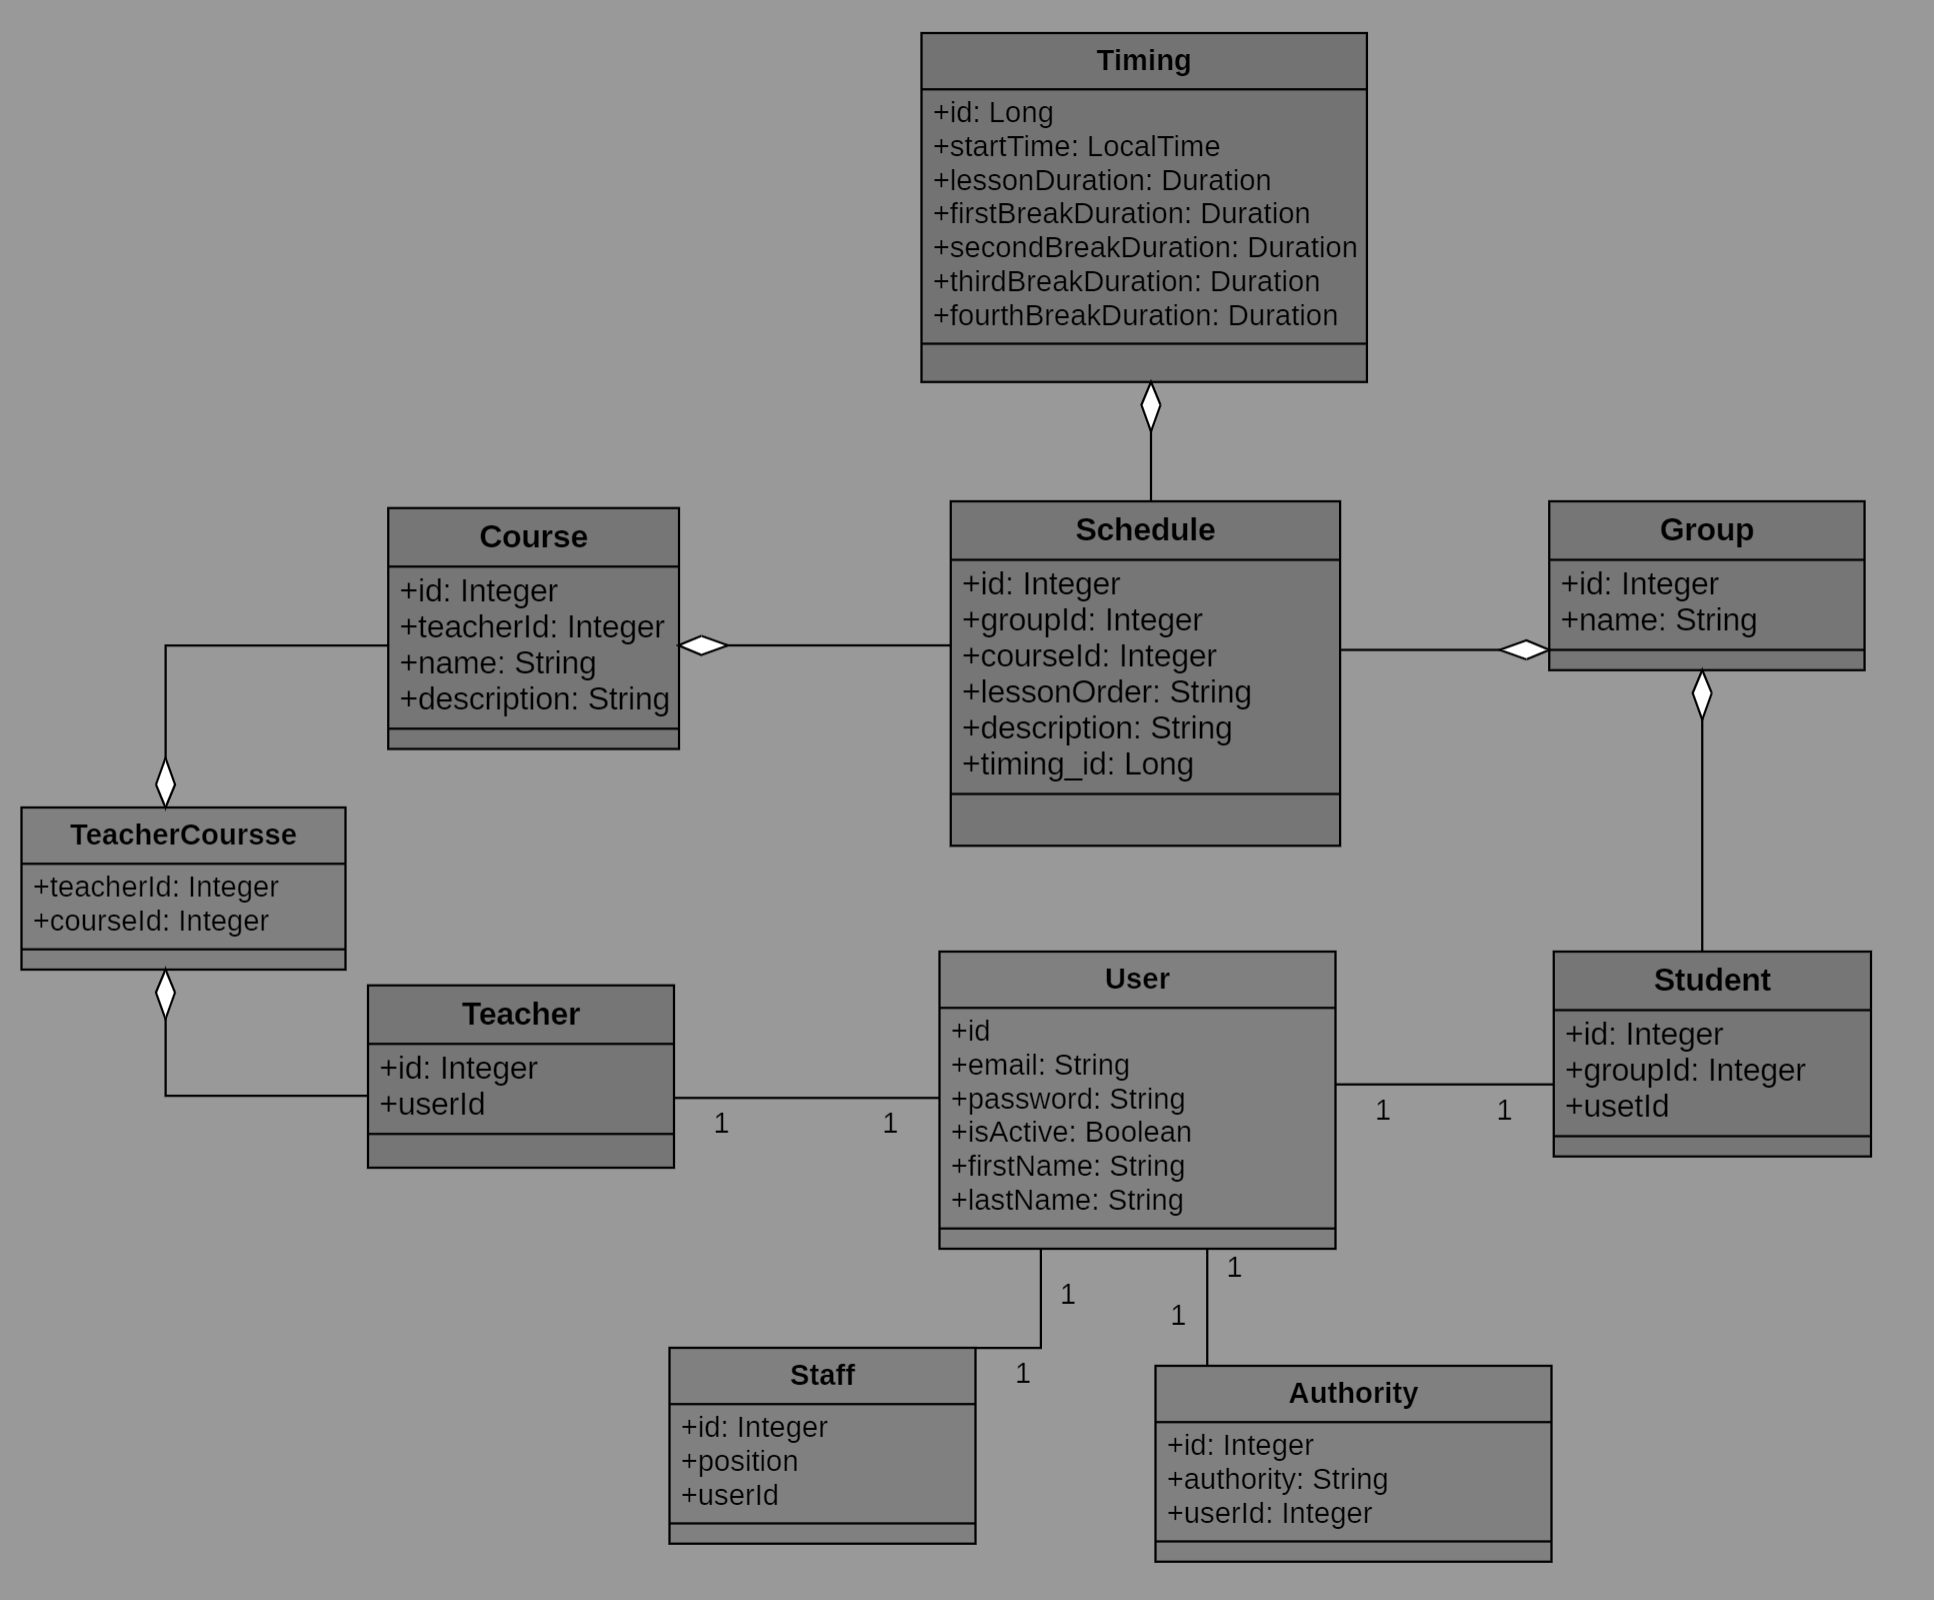
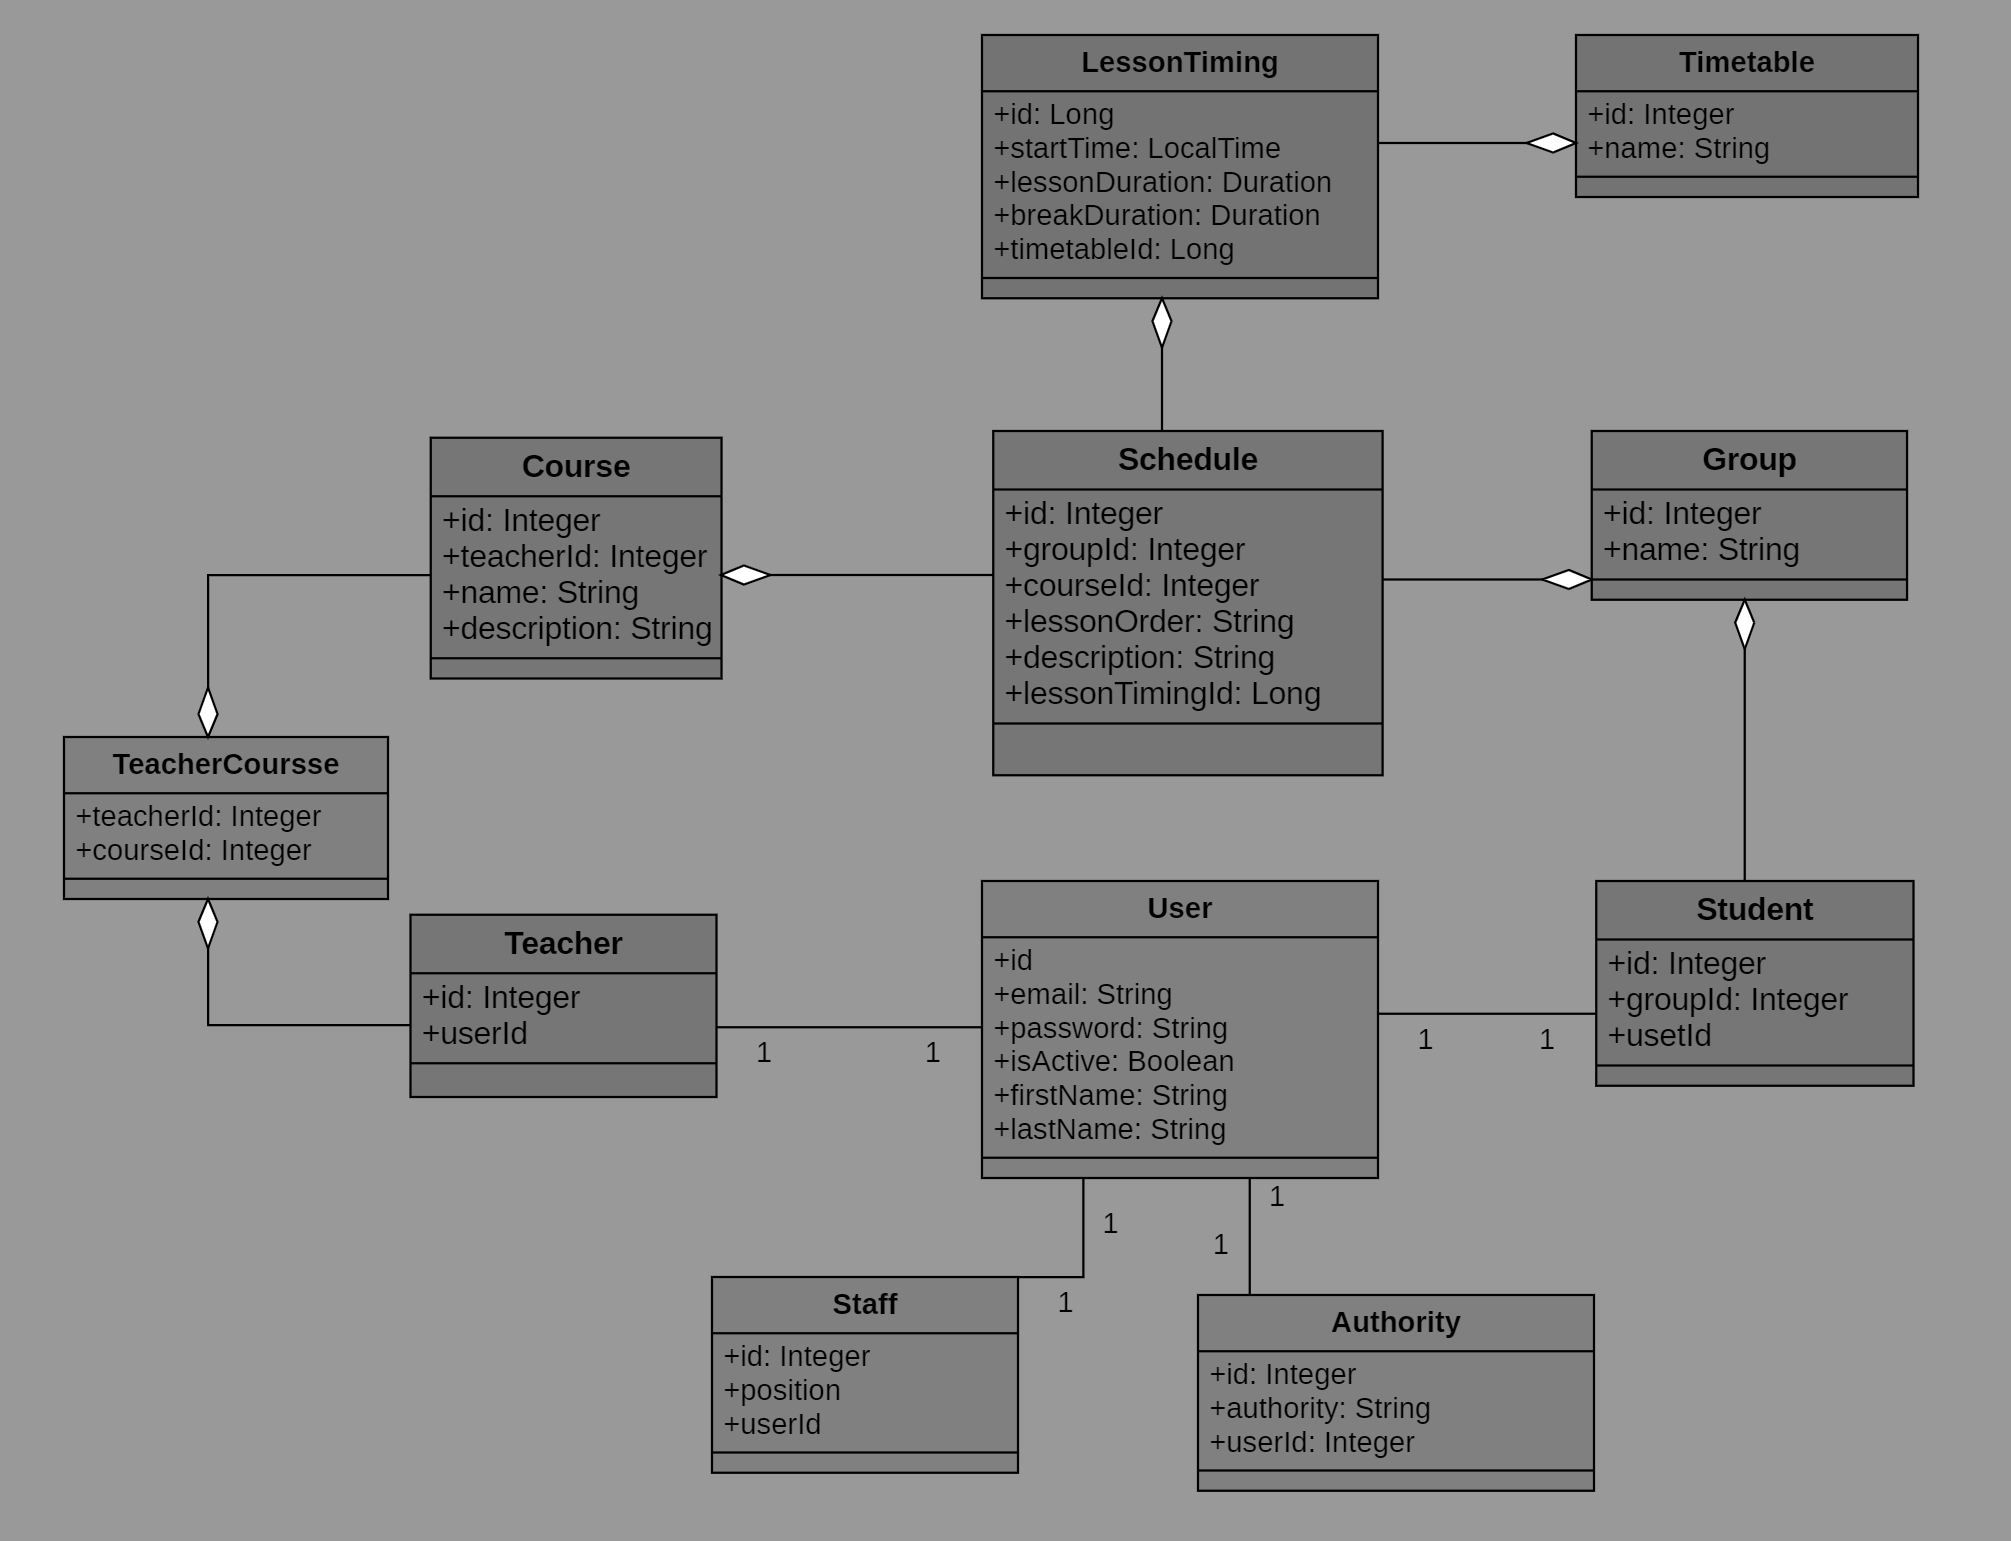
The database shcema was changed, LessonTimingEntity and TimetableEntity were added.

diff --git a/src/main/java/ua/com/foxminded/university/entity/LessonTimingEntity.java b/src/main/java/ua/com/foxminded/university/entity/LessonTimingEntity.java
@@ -8,9 +8,12 @@ import java.util.Set;
 import javax.persistence.Column;
 import javax.persistence.Convert;
 import javax.persistence.Entity;
+import javax.persistence.FetchType;
 import javax.persistence.GeneratedValue;
 import javax.persistence.GenerationType;
 import javax.persistence.Id;
+import javax.persistence.JoinColumn;
+import javax.persistence.ManyToOne;
 import javax.persistence.OneToMany;
 import javax.persistence.Table;
 
@@ -28,7 +31,7 @@ import ua.com.foxminded.university.converter.DurationConverter;
 @Builder
 @AllArgsConstructor
 @NoArgsConstructor
-public class TimingEntity implements Serializable {
+public class LessonTimingEntity implements Serializable {
     
     private static final long serialVersionUID = 1L;
     
@@ -39,54 +42,31 @@ public class TimingEntity implements Serializable {
     @Column(name = "start_time")
     private LocalTime startTime;
     
-    @Column(name = "first_lesson_duration")
+    @Column(name = "lesson_duration")
     @Convert(converter = DurationConverter.class)
-    private Duration firstlessonDuration;
+    private Duration lessonDuration;
     
-    @Column(name = "first_break_duration")
+    @Column(name = "break_duration")
     @Convert(converter = DurationConverter.class)
-    private Duration firstBreakDuration;
+    private Duration breakDuration;
     
-    @Column(name = "second_lesson_duration")
-    @Convert(converter = DurationConverter.class)
-    private Duration secondLessonDuration;
+    @ManyToOne(fetch = FetchType.LAZY)
+    @JoinColumn(name = "timetable_id")
+    @ToString.Exclude
+    private TimetableEntity timetable;
     
-    @Column(name = "second_break_duration")
-    @Convert(converter = DurationConverter.class)
-    private Duration secondBreakDuration;
-    
-    @Column(name = "third_lesson_duration")
-    @Convert(converter = DurationConverter.class)
-    private Duration thirdLessonDuration;
-    
-    @Column(name = "third_break_duration")
-    @Convert(converter = DurationConverter.class)
-    private Duration thirdBreakDuration;
-    
-    @Column(name = "fourth_lesson_duration")
-    @Convert(converter = DurationConverter.class)
-    private Duration fourthLessonDuration;
-    
-    @Column(name = "fourth_break_duration")
-    @Convert(converter = DurationConverter.class)
-    private Duration fourthBreakDuration;
-    
-    @Column(name = "fifth_lesson_duration")
-    @Convert(converter = DurationConverter.class)
-    private Duration fifthLessonDuration;
-    
-    @OneToMany(mappedBy = "timing")
+    @OneToMany(mappedBy = "lessonTiming")
     @EqualsAndHashCode.Exclude
     @ToString.Exclude
     private Set<ScheduleEntity> schedules;
     
     public void addSchedule(ScheduleEntity schedule) {
         this.schedules.add(schedule);
-        schedule.setTiming(this);
+        schedule.setLessonTiming(this);
     }
     
     public void removeShcedule(ScheduleEntity schedule) {
         this.schedules.remove(schedule);
-        schedule.setTiming(null);
+        schedule.setLessonTiming(null);
     }
 }

diff --git a/src/test/java/ua/com/foxminded/university/entitymother/TimingEntityMother.java b/src/test/java/ua/com/foxminded/university/entitymother/TimingEntityMother.java
@@ -3,27 +3,17 @@ package ua.com.foxminded.university.entitymother;
 import java.time.Duration;
 import java.time.LocalTime;
 
-import ua.com.foxminded.university.entity.TimingEntity;
+import ua.com.foxminded.university.entity.LessonTimingEntity;
 
 public class TimingEntityMother {
     
     public static final LocalTime START_TIME = LocalTime.of(8, 00);
-    public static final Duration FOURTH_BREAK_DURATION = Duration.ofMinutes(10);
-    public static final Duration THIRD_BREAK_DURATION = Duration.ofMinutes(20);
-    public static final Duration SECOND_BREAK_DURATION = Duration.ofMinutes(45);
-    public static final Duration FIRST_BREAK_DURATION = Duration.ofMinutes(15);
+    public static final Duration BREAK_DURATION = Duration.ofMinutes(15);
     public static final Duration LESSON_DURATION = Duration.ofMinutes(90);
     
-    public static TimingEntity.TimingEntityBuilder complete() {
-        return TimingEntity.builder().startTime(START_TIME)
-                                     .firstlessonDuration(LESSON_DURATION)
-                                     .firstBreakDuration(FIRST_BREAK_DURATION)
-                                     .secondLessonDuration(LESSON_DURATION)
-                                     .secondBreakDuration(SECOND_BREAK_DURATION)
-                                     .thirdLessonDuration(LESSON_DURATION)
-                                     .thirdBreakDuration(THIRD_BREAK_DURATION)
-                                     .fourthLessonDuration(LESSON_DURATION)
-                                     .fourthBreakDuration(FOURTH_BREAK_DURATION)
-                                     .fifthLessonDuration(LESSON_DURATION);
+    public static LessonTimingEntity.LessonTimingEntityBuilder complete() {
+        return LessonTimingEntity.builder().startTime(START_TIME)
+                                           .lessonDuration(LESSON_DURATION)
+                                           .breakDuration(BREAK_DURATION);
     }
 }

diff --git a/src/main/java/ua/com/foxminded/university/service/impl/ScheduleServiceImpl.java b/src/main/java/ua/com/foxminded/university/service/impl/ScheduleServiceImpl.java
@@ -74,18 +74,18 @@ public class ScheduleServiceImpl implements ScheduleService {
     @Override
     public void create(ScheduleModel model) throws ServiceException {
         try {
-            ScheduleEntity persistEntity = scheduleRepository
-                    .findByDatestampAndLessonOrderAndGroupId(model.getDatestamp(), 
-                                                             model.getLessonOrder(), 
-                                                             model.getGroup().getId());
+//            ScheduleEntity persistEntity = scheduleRepository
+//                    .findByDatestampAndLessonOrderAndGroupId(model.getDatestamp(), 
+//                                                             model.getLessonOrder(), 
+//                                                             model.getGroup().getId());
             
-            if (persistEntity == null) {
-                ScheduleEntity entity = modelMapper.map(model, ScheduleEntity.class);
-                scheduleRepository.saveAndFlush(entity);
-            } else {
-                model.setId(persistEntity.getId());
-                update(model);
-            }
+//            if (persistEntity == null) {
+//                ScheduleEntity entity = modelMapper.map(model, ScheduleEntity.class);
+//                scheduleRepository.saveAndFlush(entity);
+//            } else {
+//                model.setId(persistEntity.getId());
+//                update(model);
+//            }
         } catch (IllegalArgumentException | ConfigurationException | MappingException e) {
             throw new ServiceException("Creating a timetable fails", e);
         }

diff --git a/src/test/java/ua/com/foxminded/university/service/ShceduleServiceImplTest.java b/src/test/java/ua/com/foxminded/university/service/ShceduleServiceImplTest.java
@@ -103,9 +103,9 @@ class ShceduleServiceImplTest {
         timetableModel.setId(TIMETABLE_ID);
         groupModel.setId(GROUP_ID);
         timetableModel.setGroup(groupModel);
-        when(timetableRepositoryMock.findByDatestampAndLessonOrderAndGroupId(
-                isA(LocalDate.class), isA(LessonOrder.class), anyInt()))
-            .thenReturn(timetableEntity);
+//        when(timetableRepositoryMock.findByDatestampAndLessonOrderAndGroupId(
+//                isA(LocalDate.class), isA(LessonOrder.class), anyInt()))
+//            .thenReturn(timetableEntity);
         when(modelMapperMock.map(timetableModel, ScheduleEntity.class)).thenReturn(
                 timetableEntity);
         when(timetableRepositoryMock.findById(anyInt())).thenReturn(timetableEntity);
@@ -117,8 +117,8 @@ class ShceduleServiceImplTest {
     void create_ShouldCallComponents_WhenIfBlockTure() throws ServiceException {
         groupModel.setId(GROUP_ID);
         timetableModel.setGroup(groupModel);
-        when(timetableRepositoryMock.findByDatestampAndLessonOrderAndGroupId(
-                isA(LocalDate.class), isA(LessonOrder.class), anyInt())).thenReturn(null);
+//        when(timetableRepositoryMock.findByDatestampAndLessonOrderAndGroupId(
+//                isA(LocalDate.class), isA(LessonOrder.class), anyInt())).thenReturn(null);
         when(modelMapperMock.map(timetableModel, ScheduleEntity.class))
             .thenReturn(timetableEntity);
         timetableSerivice.create(timetableModel);

diff --git a/src/main/java/ua/com/foxminded/university/entity/TimetableEntity.java b/src/main/java/ua/com/foxminded/university/entity/TimetableEntity.java
@@ -1,0 +1,41 @@
+package ua.com.foxminded.university.entity;
+
+import java.io.Serializable;
+import java.util.Set;
+
+import javax.persistence.Entity;
+import javax.persistence.GeneratedValue;
+import javax.persistence.GenerationType;
+import javax.persistence.Id;
+import javax.persistence.OneToMany;
+
+import lombok.Data;
+import lombok.EqualsAndHashCode;
+import lombok.ToString;
+
+@Entity
+@Data
+public class TimetableEntity implements Serializable {
+
+    private static final long serialVersionUID = 1L;
+    
+    @Id
+    @GeneratedValue(strategy = GenerationType.IDENTITY)
+    private Integer id;
+    private String name;
+    
+    @OneToMany(mappedBy = "timetable")
+    @EqualsAndHashCode.Exclude
+    @ToString.Exclude
+    private Set<LessonTimingEntity> lessonTiming;
+    
+    public void addLessonTiming(LessonTimingEntity lessonTiming) {
+        this.lessonTiming.add(lessonTiming);
+        lessonTiming.setTimetable(this);
+    }
+    
+    public void removeLessonTiming(LessonTimingEntity lessonTiming) {
+        this.lessonTiming.remove(lessonTiming);
+        lessonTiming.setTimetable(null);
+    }
+}

diff --git a/src/main/java/ua/com/foxminded/university/repository/ScheduleRepository.java b/src/main/java/ua/com/foxminded/university/repository/ScheduleRepository.java
@@ -11,11 +11,11 @@ import ua.com.foxminded.university.entity.ScheduleEntity;
 
 public interface ScheduleRepository extends JpaRepository<ScheduleEntity, Integer> {
     
-    @Query("select s from ScheduleEntity s left join fetch s.group " + 
-           "where s.datestamp = ?1 and s.lessonOrder = ?2 and s.group.id = ?3")
-    public ScheduleEntity findByDatestampAndLessonOrderAndGroupId(LocalDate date, 
-                                                                  LessonOrder order, 
-                                                                  int groupId);
+//    @Query("select s from ScheduleEntity s left join fetch s.group " + 
+//           "where s.datestamp = ?1 and s.lessonOrder = ?2 and s.group.id = ?3")
+//    public ScheduleEntity findByDatestampAndLessonOrderAndGroupId(LocalDate date, 
+//                                                                  LessonOrder order, 
+//                                                                  int groupId);
     
     public List<ScheduleEntity> findByDatestamp(LocalDate date);
     

diff --git a/src/test/java/ua/com/foxminded/university/repository/ScheduleRepositoryTest.java b/src/test/java/ua/com/foxminded/university/repository/ScheduleRepositoryTest.java
@@ -53,11 +53,11 @@ class ScheduleRepositoryTest {
         entityManager.close();
     }
     
-    void findByDatestampAndStartTimeAndGroupId_ShouldReturnTimetableEntity() {
-        ScheduleEntity entity = timetableRepository.findByDatestampAndLessonOrderAndGroupId(
-                schedule.getDatestamp(), schedule.getLessonOrder(), group.getId());
-        assertEquals(schedule.getGroup().getId(), entity.getGroup().getId());
-    }
+//    void findByDatestampAndStartTimeAndGroupId_ShouldReturnTimetableEntity() {
+//        ScheduleEntity entity = timetableRepository.findByDatestampAndLessonOrderAndGroupId(
+//                schedule.getDatestamp(), schedule.getLessonOrder(), group.getId());
+//        assertEquals(schedule.getGroup().getId(), entity.getGroup().getId());
+//    }
     
     @Test
     void findByDatestamp_ShouldReturnTimetablesOfDay() {

diff --git a/src/test/java/ua/com/foxminded/university/entitymother/ScheduleEntityMother.java b/src/test/java/ua/com/foxminded/university/entitymother/ScheduleEntityMother.java
@@ -2,18 +2,16 @@ package ua.com.foxminded.university.entitymother;
 
 import java.time.LocalDate;
 
-import ua.com.foxminded.university.entity.LessonOrder;
 import ua.com.foxminded.university.entity.ScheduleEntity;
 
 public class ScheduleEntityMother {
     
     public static final String SCHEDULE_DESCRIPTION = "some timetable description";
-    public static final LocalDate DATE = LocalDate.of(2023, 4, 24);
+    public static final LocalDate DATE = LocalDate.of(2023, 5, 24);
    
     
     public static ScheduleEntity.ScheduleEntityBuilder complete() {
         return ScheduleEntity.builder().datestamp(DATE)
-                                       .description(SCHEDULE_DESCRIPTION)
-                                       .lessonOrder(LessonOrder.FIRST_LESSON);
+                                       .description(SCHEDULE_DESCRIPTION);
     }
 }

diff --git a/src/main/java/ua/com/foxminded/university/entity/ScheduleEntity.java b/src/main/java/ua/com/foxminded/university/entity/ScheduleEntity.java
@@ -34,9 +34,6 @@ public class ScheduleEntity implements Serializable {
     @GeneratedValue(strategy = GenerationType.IDENTITY)
     private Integer id;
     private LocalDate datestamp;
-    
-    @Enumerated(EnumType.STRING)
-    private LessonOrder lessonOrder;
     private String description;
     
     @ManyToOne(fetch = FetchType.LAZY)
@@ -50,7 +47,7 @@ public class ScheduleEntity implements Serializable {
     private CourseEntity course;
     
     @ManyToOne(fetch = FetchType.LAZY)
-    @JoinColumn(name = "timing_id")
+    @JoinColumn(name = "lesson_timing_id")
     @ToString.Exclude
-    private TimingEntity timing;
+    private LessonTimingEntity lessonTiming;
 }
